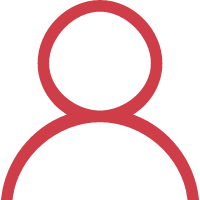
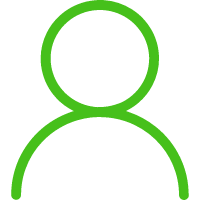
董礼

Changed region(s): [[0.0, 0.0, 1.0, 1.0]]

diff --git a/css/main.css b/css/main.css
@@ -4,7 +4,7 @@ html,body,.wrapper,.mui-content{width: 100%;height: 100%;font-size: .25rem;line-
 .head span{display: flex;align-items: center;justify-content: center;white-space: nowrap;}
 .head div{flex: 1;display: flex;align-items: center;justify-content: center;}
 .bottom{position: absolute;bottom: 0;left: 0;width: 100%;display: flex;height: .8rem;background: white;z-index: 999;font-size: .25rem;}
-.bottom .active{color: rgb(236,94,74);font-weight: 600;}
+.bottom .active{color: #46c01b;font-weight: 600;}
 .main{width: 100%;padding-bottom:1.4rem ;margin-top: .6rem;height: 100%;overflow-y: scroll;overflow-x: hidden;}
 .myalert{position: fixed;width: 100%;height: 100%;background: rgba(0,0,0,.5);display: flex;align-items: center;justify-content: center;z-index: 999;display: none;}
 .alert-main{width: 4rem;background: white;overflow: hidden;border-radius: .1rem;}
@@ -14,7 +14,7 @@ html,body,.wrapper,.mui-content{width: 100%;height: 100%;font-size: .25rem;line-
 #yes{background: rgb(236,94,74);color: white;}
 .mui-slider{background: white;}
 /*首页*/
-.index .head{background: rgb(236,94,74);height: .6rem;align-items: center;justify-content: space-between;padding: 0 .2rem;}
+.index .head{background: #46c01b;height: .6rem;align-items: center;justify-content: space-between;padding: 0 .2rem;}
 .index .head img{width: .4rem;height: .4rem;}
 .index .head form{background: rgba(255,255,255,.5);display: flex;align-items: center;flex: 1;margin-right: .4rem;border-radius: 2px;}
 .index .head input{width: 100%;height: .4rem;border: 0;margin: 0;padding: 0;background: rgba(0,0,0,0);line-height: .4rem;color: white;}
@@ -23,7 +23,7 @@ html,body,.wrapper,.mui-content{width: 100%;height: 100%;font-size: .25rem;line-
 .bottom .bottom-tab{display: flex;flex-direction: column;align-items: center;flex: 1;justify-content: center;}
 .bottom .bottom-tab img{width: .3rem;height: .3rem;}
 .bottom .bottom-tab span{line-height: .25rem;height: .25rem;margin-top: .1rem;}
-.index .tabnav{width: 100%;display: flex;background: url(../img/indexback.png) no-repeat;align-items: center;color: white;padding: .2rem 0;background-size:auto 100%;}
+.index .tabnav{width: 100%;display: flex;background: #46c01b;align-items: center;color: white;padding: .2rem 0;}
 .index .tab{display: flex;flex-direction: column;align-items: center;justify-content: center;flex: 1;}
 .index .tab img{width: .5rem;height: .5rem;}
 .index .mui-slider img,.index .mui-slider video{width: 100%;height:2rem;}
@@ -56,11 +56,11 @@ html,body,.wrapper,.mui-content{width: 100%;height: 100%;font-size: .25rem;line-
 .scan .photo{background: white;border-radius: .3rem;display: flex;align-items: center;justify-content: center;width: 2rem;height: .6rem;margin: 0 .2rem;}
 /*用户中心*/
 .user{font-size: .25rem;}
-.user .user-top{width: 100%;height:3rem;color: white;background:rgb(236,94,74) ;}
+.user .user-top{width: 100%;height:3rem;color: white;background:#46c01b;}
 .user .new{height: .8rem;display: flex;justify-content: flex-end;align-items: center;}
 .user .new img{width: .4rem;height: .4rem;margin-right: .2rem;}
 .user .top-main{display: flex;align-items: center;}
-.user .top-main img{width: .8rem;height: .8rem;margin: 0 .2rem;}
+.user .top-main img{width: .8rem;height: .8rem;margin: 0 .2rem;border-radius: 50%;}
 .user .top-main .logo{border: 1px solid white;padding:0 .1rem;}
 .user .user-main{width: 95%;height: 2.5rem;background: white;position: relative;left: 2.5%;top: -1.25rem;box-shadow: 0 0 10px 1px #DDDDDD;}
 .user .user-inner{height: 100%;margin: 0 .1rem;display: flex;flex-direction: column;}
@@ -293,7 +293,7 @@ html,body,.wrapper,.mui-content{width: 100%;height: 100%;font-size: .25rem;line-
 .shopcart .cart-price{display: flex;justify-content: space-between;line-height: 1;align-items: flex-end;}
 .shopcart strong{font-size: .3rem;font-weight: 400;color: rgb(280,80,60);}
 .shopcart .cart-bottom{width: 100%;height: .8rem;background: rgb(248,248,248);position: fixed;left: 0;bottom: .8rem;display: flex;align-items: center;}
-.shopcart .bottom-buy{width:2rem;height: .8rem;background: rgb(280,80,60);color: white;display: flex;align-items: center;justify-content: center;}
+.shopcart .bottom-buy{width:2rem;height: .8rem;background: #46c01b;color: white;display: flex;align-items: center;justify-content: center;}
 .shopcart .bootom-price{flex: 1;display: flex;align-items: center;}
 .shopcart .radio{display: flex;align-items: center;margin-right: .2rem;}
 .shopcart .mui-numbox{height: .4rem;width: 1rem;padding: 0 .3rem;display: none;transition: all .6s;}
